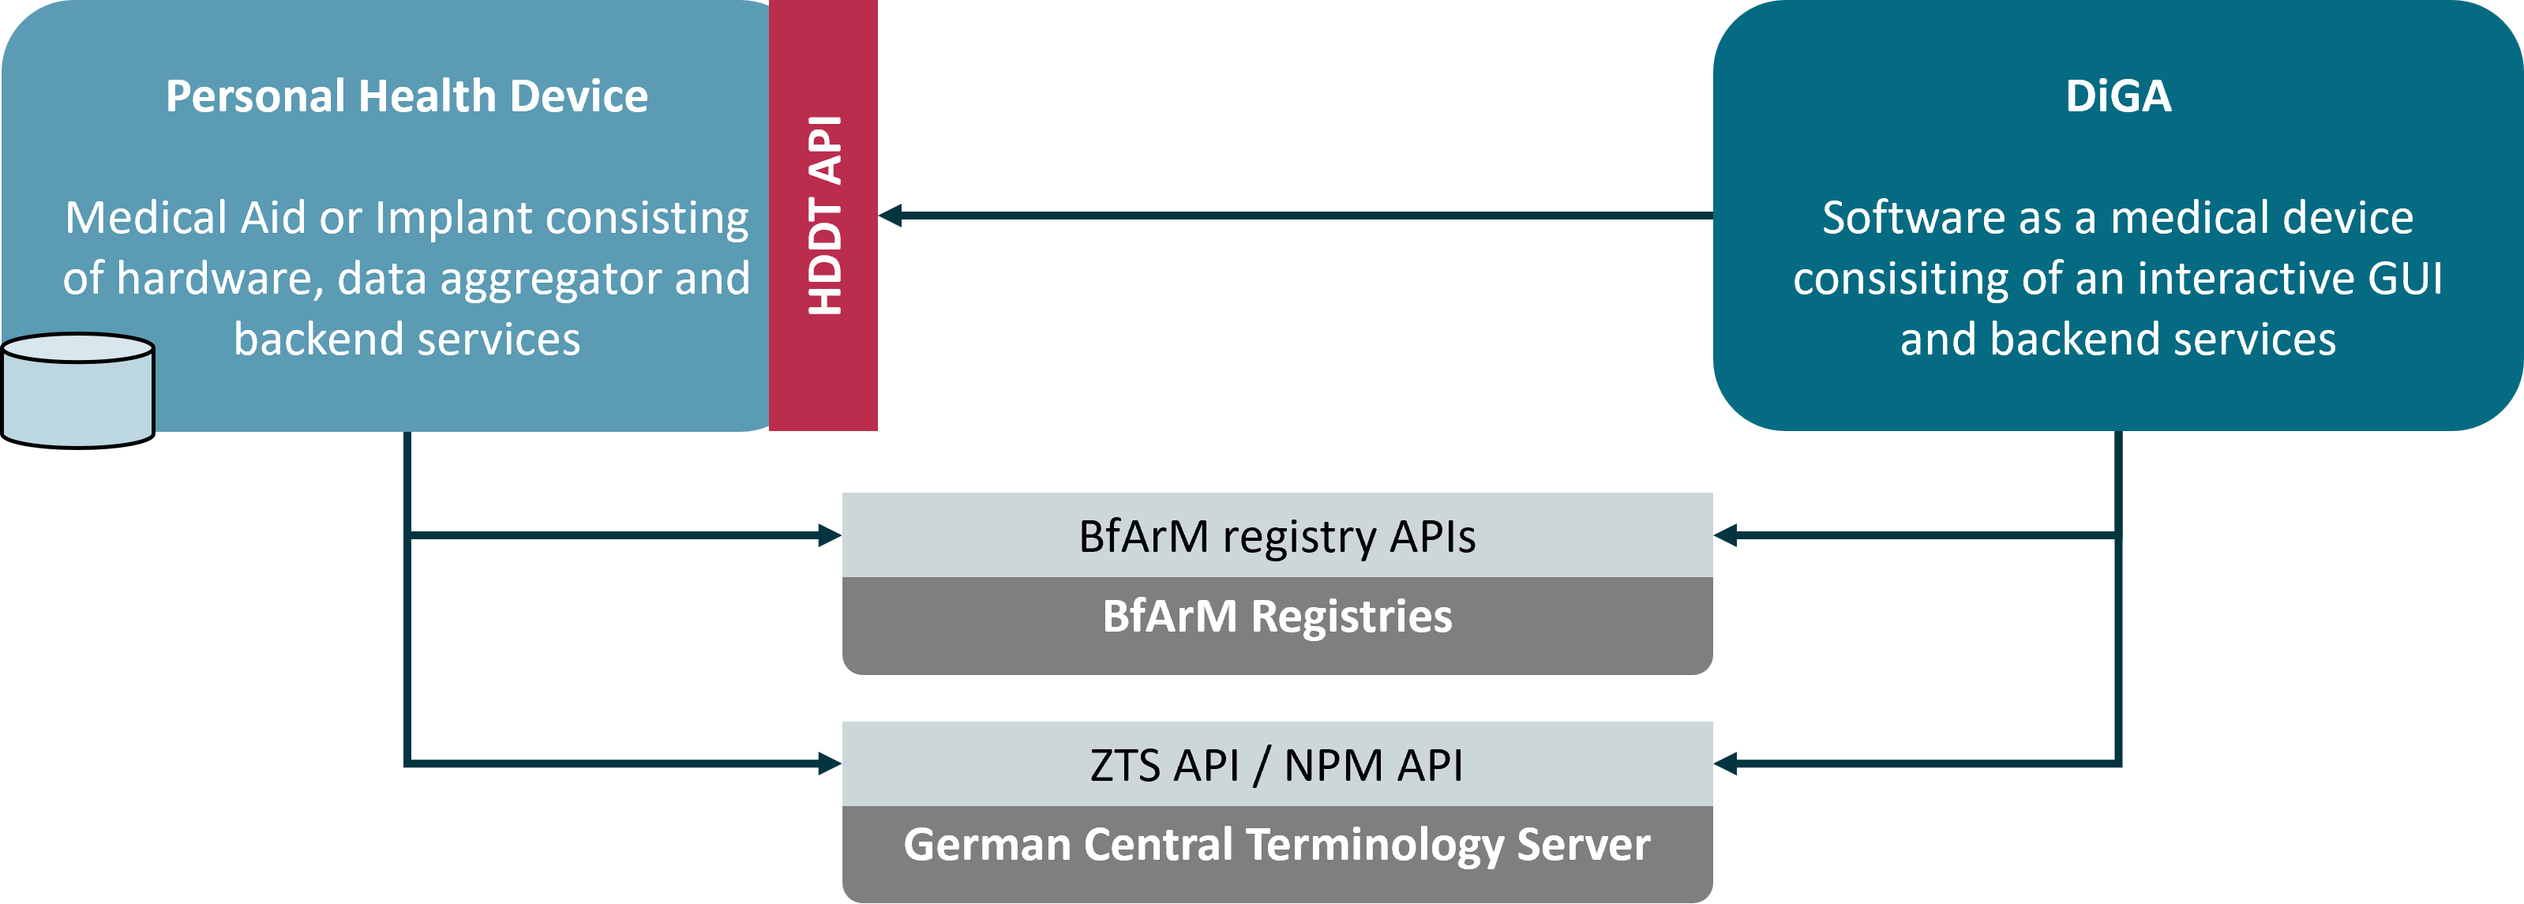
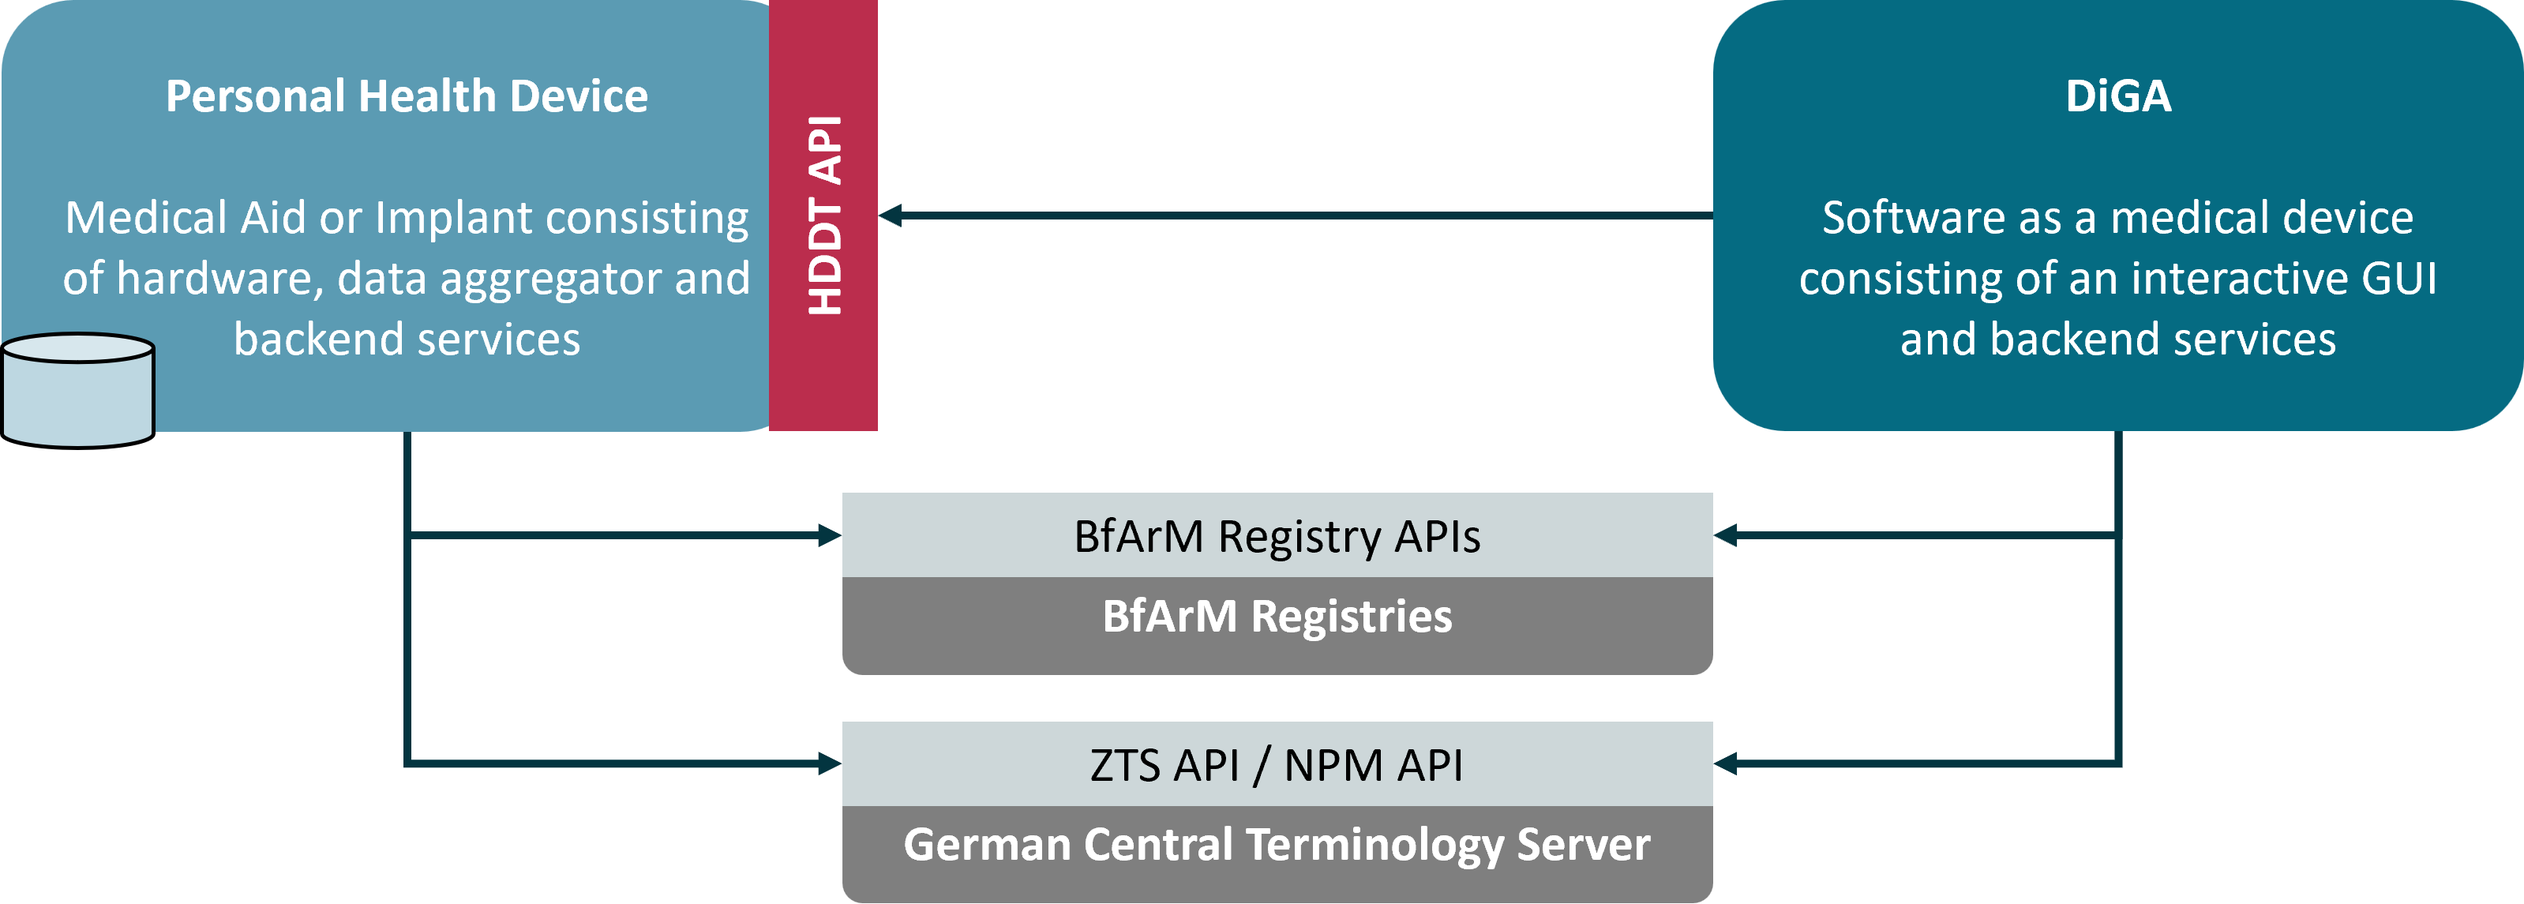
Auflösen Kommentare (#89)

Changed region(s): [[0.7122, 0.2751, 0.9909, 0.3362], [0.4026, 0.5808, 0.5884, 0.6114]]

diff --git a/input/pagecontent/logical-viewpoints.md b/input/pagecontent/logical-viewpoints.md
@@ -1,53 +1,49 @@
-### Status: Draft (vollständig)
-* Verantwortlich: @jcaumann
-* ToDo:
-    * Review
-
-<hr>
 
 § 374a SGB V requests vendors of medical aids and implants to provide medical device data for authorized digital health applications (DiGA) through a standardized backend API. This API is specified by the Health Device Data Transfer (HDDT), which provides normative definitions for the data transfer itself as well as for accomplishing security services.   
 
 ### Building Blocks: Actors and Roles
 
-The core building blocks of the HDDT ecosystem are already defined by law. § 374a SGB V names __personal health devices__ (medical aids and implants) as health device data providers and __DiGA__ as eligible health device data consumers. Definitions of these actors are managed by BfArM in the __DiGA registry__ and the __device registry__. DiGA vendors and health device vendors are responsible for actively ensuring that their respective entriesin these directories are complete and current. HDDT makes intense use of coded values to allow for an interoperable sharing and automatted processing of all transmitted data. All definitions of these codes used are managed in the German __central terminology server__ (ZTS). 
+The core building blocks of the HDDT ecosystem are already defined by law. § 374a SGB V names __Personal Health Devices__ (medical aids and implants) as Personal Health Device data providers and __DiGA__ as eligible Personal Health Device data consumers. Definitions of these actors are managed by BfArM in dedicated registries for DiGA and devices (_BfARM DiGA Verzeichnis_ and _BfARM Hilfsmittel-Schnittstellen-Verzeichnis (HiMi-SST-VZ)_) . DiGA vendors and manufacturers of Personal Health Devices are responsible for actively ensuring that their respective entries in these directories are complete and current. HDDT makes intense use of coded values to allow for an interoperable sharing and automated processing of all transmitted data. All definitions of these codes used are managed in the German __Central Terminology Server__ (_Zentraler Terminologieserver_). 
 
 <div><img src="/HDDT core actors.png" alt="core building blocks of the HDDT ecosystem" width="60%"></div>
 <br clear="all"/>
 
-The HDDT API is defined as an backend API. It is asumed that the personal health device vendor (or an associated vendor) operates a health record on a server or in a cloud where all data measured by the device sensor is stored. The DiGA from its backend explicitly requests data from the personal health device's health record through FHIR RESTful queries and FHIR operations. 
+The HDDT API is defined as an backend API. It is asumed that the Personal Health Device manufacturer (or an associated vendor) operates a Health Record on a server or in a cloud where data measured by the device sensor is stored. The DiGA from its backend explicitly requests data from the Personal Health Device's Health Record through FHIR RESTful queries and FHIR operations. 
 
-Further information on the HDDT buildung blocks is given in the section [Participants](participants.md). The technical sepcifications of the interfaces which have to be provided by the defined building blocks can be found in the chapter __REST API__.
+Further information on the HDDT buildung blocks is given in the section [Participants](participants.html). The technical specifications of the interfaces which have to be provided by the defined building blocks can be found in the chapter __REST API__.
 
-### Data to be transferd through the HDDT API
+### Data to be transferred through the HDDT API
 
 Subject of the data transmission as requested by § 374a SGB V are measured data, aggregated/derived data and configuration data:
-- All data that is measured through sensors of the personal health device is considered as measured data and as such subject to the HDDT specifications. Data that is obtained by the personal health device from other sources (e.g. entered by the patient) is not considered to be measued data.
-- All data that is aggregated or derived from measured data by the personal health device is subject to the HDDT specification, too.
-- Any configuration settings that affect measured data directly or indirectly are subject to the HDDT specification, too. For the first introduction of HDDT in 2027 configuration data will only be considered if it directly affects measured data.  
+- All data that is measured through sensors of the Personal Health Device is considered as measured data and as such subject to the HDDT specifications. Data that is obtained by the Personal Health Device from other sources (e.g. entered by the patient) is not considered to be measured data.
+- All data that is aggregated or derived from measured data by the Personal Health Device is subject to the HDDT specification, too.
+- Any static and dynamic attributes that make up the configuration of the device are subject to the HDDT specification, too. For the first introduction of HDDT in 2027 only attributes will only be considered that 
+  - affect the general ability of a DiGA to process the received device data for the DiGA's eligible purposes (e.g. calibration status of the Personal Health Device) or 
+  - that affect the interaction between the DiGA and the backend services of the Personal Health Device (e.g. discovering missing data so that a request may be stated again in the future).
 
-The figure below shows the relationship between personal health devices, measured data and derived data for the domain "Diabetes Self-Management". Relationships between devices and measured data is n:m which means that any device could provide many kinds of measured data while each measured data may be provided by multiple kinds of personal health devices.
+The figure below shows the relationship between Personal Health Devices, measured data and derived data for the domain "Diabetes Self-Management". Relationships between devices and measured data is n:m which means that any device could provide many kinds of measured data while each measured data may be provided by multiple kinds of personal Personal Health Devices.
 
 <div><img src="/diabetes devices and values.png" alt="devices and values in the domain diabetes self-management" width="60%"></div>
 <br clear="all"/>
 
-Further information on devices and data is given in the sections [Information Model](information-model.md) and (Retrieving Data)[retrieving-data.md]. The technical specifications of the FHIR resources that represent data and devices are domain specific. FHIR implementation guides for various kinds of device and data related to glucose measurements can be found in the chapter __UseCase Diabetes Self Management__.
+Further information on devices and data is given in the sections [Information Model](information-model.html) and [Retrieving Data](retrieving-data.html). The technical specifications of the FHIR resources that represent data and devices are domain specific. FHIR implementation guides for various kinds of device and data related to glucose measurements can be found in the chapter __MIV-Specific APIs__.
 
 ### Minimum Interoperable Values
 
-As stated, the relationship between personal health devices and measured data is many-to-many. The same holds for DiGA and required data; e.g. a diabetes DiGA may use blood glucose values from glucometers as well as data about insulin injections from SmartPens for it's legitimite purposes. For matching data which is requested by DiGA with data which is provided by health devices, the HDDT specification introduces the idea of __Mandatory Interoperable Values (MIVs)__. A MIV is a conceptual definition of a certain kind of device data that is processed by DiGA. A "conceptual definition" defines data by its properties and purposes within the context of a DiGA device data processing scenario. An example for a MIV is _Blood Glucose Value_. This MIV is measured from blood according to care plan (e.g. taking measurements before main meals) or on demand. Values are usable for clinical decisions. _ISF Glucose Sampled Value_ is another example for a MIV. This one is measured continuously in interstitial fluid (ISF) and suitable for calculating key indicators for the status of the treatment (e.g. %TIR and GMI). By this even though these two MIVs express glucose values, the both will presumably be used in different use cases by different DiGA. 
+As stated, the relationship between Personal Health Devices and measured data is many-to-many. The same holds for DiGA and required data; e.g. a diabetes DiGA may use blood glucose values from glucometers as well as data about insulin injections from SmartPens for it's legitimite purposes. For matching data which is requested by DiGA with data which is provided by Personal Health Devices, the HDDT specification introduces the notion of __Mandatory Interoperable Values (MIVs)__. A MIV is a conceptual definition of a certain kind of device data that is processed by DiGA. A "conceptual definition" defines data by its properties and purposes within the context of a DiGA device data processing scenario. An example for a MIV is _Blood Glucose Measurement_. This MIV is measured from blood according to care plan (e.g. taking measurements before main meals) or on demand. Values are usable for clinical decisions. _Continuous Glucose Measurement_ is another example for a MIV. This one is measured continuously in interstitial fluid (and in the future probably even through optical means) and suitable for calculating key indicators for the status of the treatment (e.g. %TIR and GMI). By this even though these two MIVs express glucose values, they both will presumably be used in different use cases by different DiGA. 
 
-The DiGA directory and Device Directory at BfArM record for each DiGA and Personal Health Device the MIVs which are processed. This allows for discovering which devices match the demands of a certain DiGA and which DiGA can process the data provided by a certain device.
+The DiGA Registry and _HiMi-SST-VZ_ (Device Registry) at BfArM record for each DiGA and Personal Health Device the MIVs which are processed. This allows for discovering which devices match the demands of a certain DiGA and which DiGA can process the data provided by a certain device.
 
 ### Security Services
-It is asumed that the DiGA and the personal health device do not have a common shared patient identifier. Even though the German GesundheitsID is a global patient ID which could be used for identifying the patient, recently neither DiGA nor personal helath devices are allowed to obtain this identifier from the patient's health insurance. Therefore if a patient allows a DiGA to request device data from a personal heath device, DiGA and health device must first link their respective patient accounts. This is done by the DiGA calling an API at an Authorization Server that has to be implemented by the health device vendor. At this point the patient is already logged in with the DiGA while the Authorization Server forces the patient to as well log in with the patient frontend of the personal health device. The patient is now simultanously activated with at both actors, which allows DiGA and health device to share a common identifier that unambigously identifies the combination of patient, DiGA and health device ("pairingID"). 
+It is asumed that the DiGA and the Personal Health Device do not have a common shared patient identifier. Even though the German _GesundheitsID_ (health ID) is a global patient ID which could be used for identifying the patient, recently neither DiGA nor Personal Health Devices are allowed to obtain this identifier from the patient's health insurance. Therefore if a patient allows a DiGA to request device data from a Personal Health Device, DiGA and Personal Health Device must first link their respective patient accounts. This is done by the DiGA calling an API at an Authorization Server that has to be implemented as part of the Personal Health Device's backend services. At this point the patient is already logged in with the DiGA while the Authorization Server forces the patient to as well log in with the patient frontend that controls the Personal Health Device. The patient is now simultanously activated with both actors, which allows DiGA and Personal Health Device to share a common identifier that unambigously identifies the combination of patient, DiGA and Personal Health Device ("pairing-ID"). 
 
-The pairing flow is based on the OAuth2 standard. The requested measured data which is requested by the DiGA is encoded as an OAuth Scope. Upon pairing the personal health device validates the requested scope with the DiGA registry at BfArM. This registry lists for all DiGA the measured data that the DiGA is allowed to process. The committed OAuth2 Scope is then encapsuled with an access token that is handed back to the DiGA by the authorization server. Whith every request for data the DiGA provides the personal health device with this access token as a proof of authorization. Access token can be renewed using the standard means of OAuth2.
+The pairing flow is based on the OAuth2 standard. The requested measured data which is requested by the DiGA is encoded as an OAuth Scope. Upon pairing the Personal Health Device validates the requested scope with the DiGA registry at BfArM. This registry lists for all DiGA the MIVS - represented by MIVs value set of LOINC codes - that the DiGA is allowed to process. The committed OAuth2 Scope is then encapsuled with an access token that is handed back to the DiGA by the authorization server. Whith every request for data the DiGA provides the Personal Health Device with this access token as a proof of authorization. Access token can be renewed using the standard means of OAuth2.
 
-The sequence diagramm below sketches the pairing flow between DiGA and personal heath device.
+The sequence diagramm below sketches the pairing flow between DiGA and Personal Health Device followed by a request for device data using a FHIR RESTful interaction.
 
 <div style="width: 100%;">
   <img src="assets/images/pairing_sequence_high_level.svg" style="width: 100%;" />
 </div>
 
-Further information on the authorization server and the authorization flow is given in the section [Pairing](pairing.md). The technical sepcification of the HDDT profile on the OAuth2 standard can be found in the section [OAuth API](oauth-api.md).
+Further information on the authorization server and the authorization flow is given in the section [Pairing](pairing.html). The technical sepcification of the HDDT profile on the OAuth2 standard can be found in the section [OAuth API](oauth-api.html).
 

diff --git a/input/pagecontent/index.md b/input/pagecontent/index.md
@@ -1,8 +1,7 @@
-
-This implementation guide specifies the interface between medical aids and implants with DiGA for health data transfer according to § 374a SGB V.
+§ 374a SGB V requests vendors of medical aids and implants to provide medical device data for authorized digital health applications (DiGA) through a standardized backend API. This API is specified by the Health Device Data Transfer (HDDT) implementation guide, which provides normative definitions for the data transfer itself as well as for accomplishing security services.   
 
 ### Content
-The implementation guide includes requirements for: 
+The HDDT implementation guide includes requirements for: 
 * Patient-initiated authorisation of the DiGA to retrieve health data from the utilised medical aid/implant (consent)
 * Management of authorisation by the patient (modifying and revoking consent)
 * Retrieval of information necessary for a DiGA to use the interfaces
@@ -12,7 +11,7 @@ The implementation guide includes requirements for:
 * Ensuring data interoperability between DiGA and medical aids/implants
 * Evidence and traceability of the operational functionality of the interface
 
-Out-of-Scope for this implementation guide are:
+Out-of-Scope for the HDDT implementation guide are:
 * Identification and authentication of the patient vis-à-vis a DiGA or a medical aid/implant (manufacturer-specific)
 * Definition of a DiGA/medical aid API for front-ends (manufacturer-specific)
 * Protection of health data storage or health data processing within a DiGA or a medical device (manufacturer-specific)
@@ -29,18 +28,6 @@ If you do not have access to the request portal and would like to use it, please
 This implementation guide is published unter the __XXXXX__ license. 
 
 
-<!--
-## Technical goals
-- Standardized profiles and value sets for interoperability between medical aids/implants and digital health applications (DiGA).
-- Mandatory codes (LOINC, UCUM) for measurement values and units.
-- Complete traceability between measurement value, device configuration, and device.
-
-## MIVs for the Domain "Diabetes Self-Management"
-Blood glucose values are provided via the FHIR resource **Observation**.  
-This contains references to **DeviceMetric** (device configuration) and **Device** (device instance).  
-Additionally, **ValueSets** are defined to specify:
-- Which measurement values (LOINC) are valid.
-- Which units (UCUM) are permitted.-->
 
 
 

diff --git a/input/pagecontent/compatibility-of-the-gematik-specification.md b/input/pagecontent/compatibility-of-the-gematik-specification.md
@@ -22,7 +22,7 @@ While deriving FHIR profiles from the assessed use cases (see [methodology](meth
 |-------------------|-----------------|---------|
 | blood glucose measurement ([Observation](https://hl7.org/fhir/R4/observation.html)) | [UK Core Observation Blood Glucose](https://simplifier.net/hl7fhirukcorer4/ukcore-observation-bloodglucose) | UK Core allows only SNOMED CT for the `Observation.code` element while HDDT only allows LOINC. <br>`Observation.device` is optional for UK Core. |
 | | [US Core R4 Observation](https://hl7.org/fhir/us/core/STU4/Observation-blood-glucose.json.html) | fully compliant except that `Observation.device` is mandatory with HDDT. |
-| | [International Patient Summary: Observation Results](https://hl7.org/fhir/uv/ips/STU1.1/StructureDefinition-Observation-results-uv-ips.html) | `Observation.device` is optional for IPS.<p>Other derivations are minor issues that do not affect the compatibility with HDDT blood sugar measurements: IPS only allows for _final_ as an observation's `status`. IPS allows for explicitly missing effective[x] elements using an extension. |
+| | [International Patient Summary: Observation Results](https://hl7.org/fhir/uv/ips/STU1.1/StructureDefinition-Observation-results-uv-ips.html) | `Observation.device` is optional for IPS. Other derivations are minor issues that do not affect the compatibility with HDDT blood sugar measurements: IPS only allows for _final_ as an observation's `status`. IPS allows for explicitly missing effective[x] elements using an extension. |
 | | [Clinivault Observation](https://simplifier.net/clinivault/example-10) (India) | fully compliant except that `Observation.device` is mandatory with HDDT. |
 | | [KBV Basisprofile](https://simplifier.net/base1x0/kbv_pr_base_observation_glucose_concentration) (Germany) | `Observation.device` is mandatory with HDDT. HDDT only allows for a single `Observation.code` while KBV requests two (LOINC and SCT). |
 | | [ISiKLebensZustand](https://simplifier.net/guide/isik-basis-stufe-5/Einfuehrung/Artefakte/Datenobjekte_Lebenszustand?version=5.0.0) (Germany) | `Observation.device` is mandatory with HDDT. HDDT only allows for a single LOINC `code` while ISiK allows for an additional SCT code. ISiK sets `Observation.value[x]`to [1..1], while HDDT allows for values to be absent. |

diff --git a/input/pagecontent/conventions.md b/input/pagecontent/conventions.md
@@ -26,6 +26,6 @@ The following German proper nouns are not translated in this specification:
 * gematik (_National Agency for Digital Health_)
 * Bundesministerium für Gesundheit (_BMG: Federal Ministry of Health_)
 * Hilfsmittel-Schnittstellen-Verzeichnis (_HiMi-SST-VZ: BfArM Registry of devices and data recorders_) 
-* DiGA-Verzeichnis (_DiGA VZ: BfArM DiGA Directory_)
+* DiGA-Verzeichnis (_DiGA VZ: BfArM DiGA Registry_)
 * Zentraler Terminologieserver (_ZTS: German National Terminology Server_)
 
